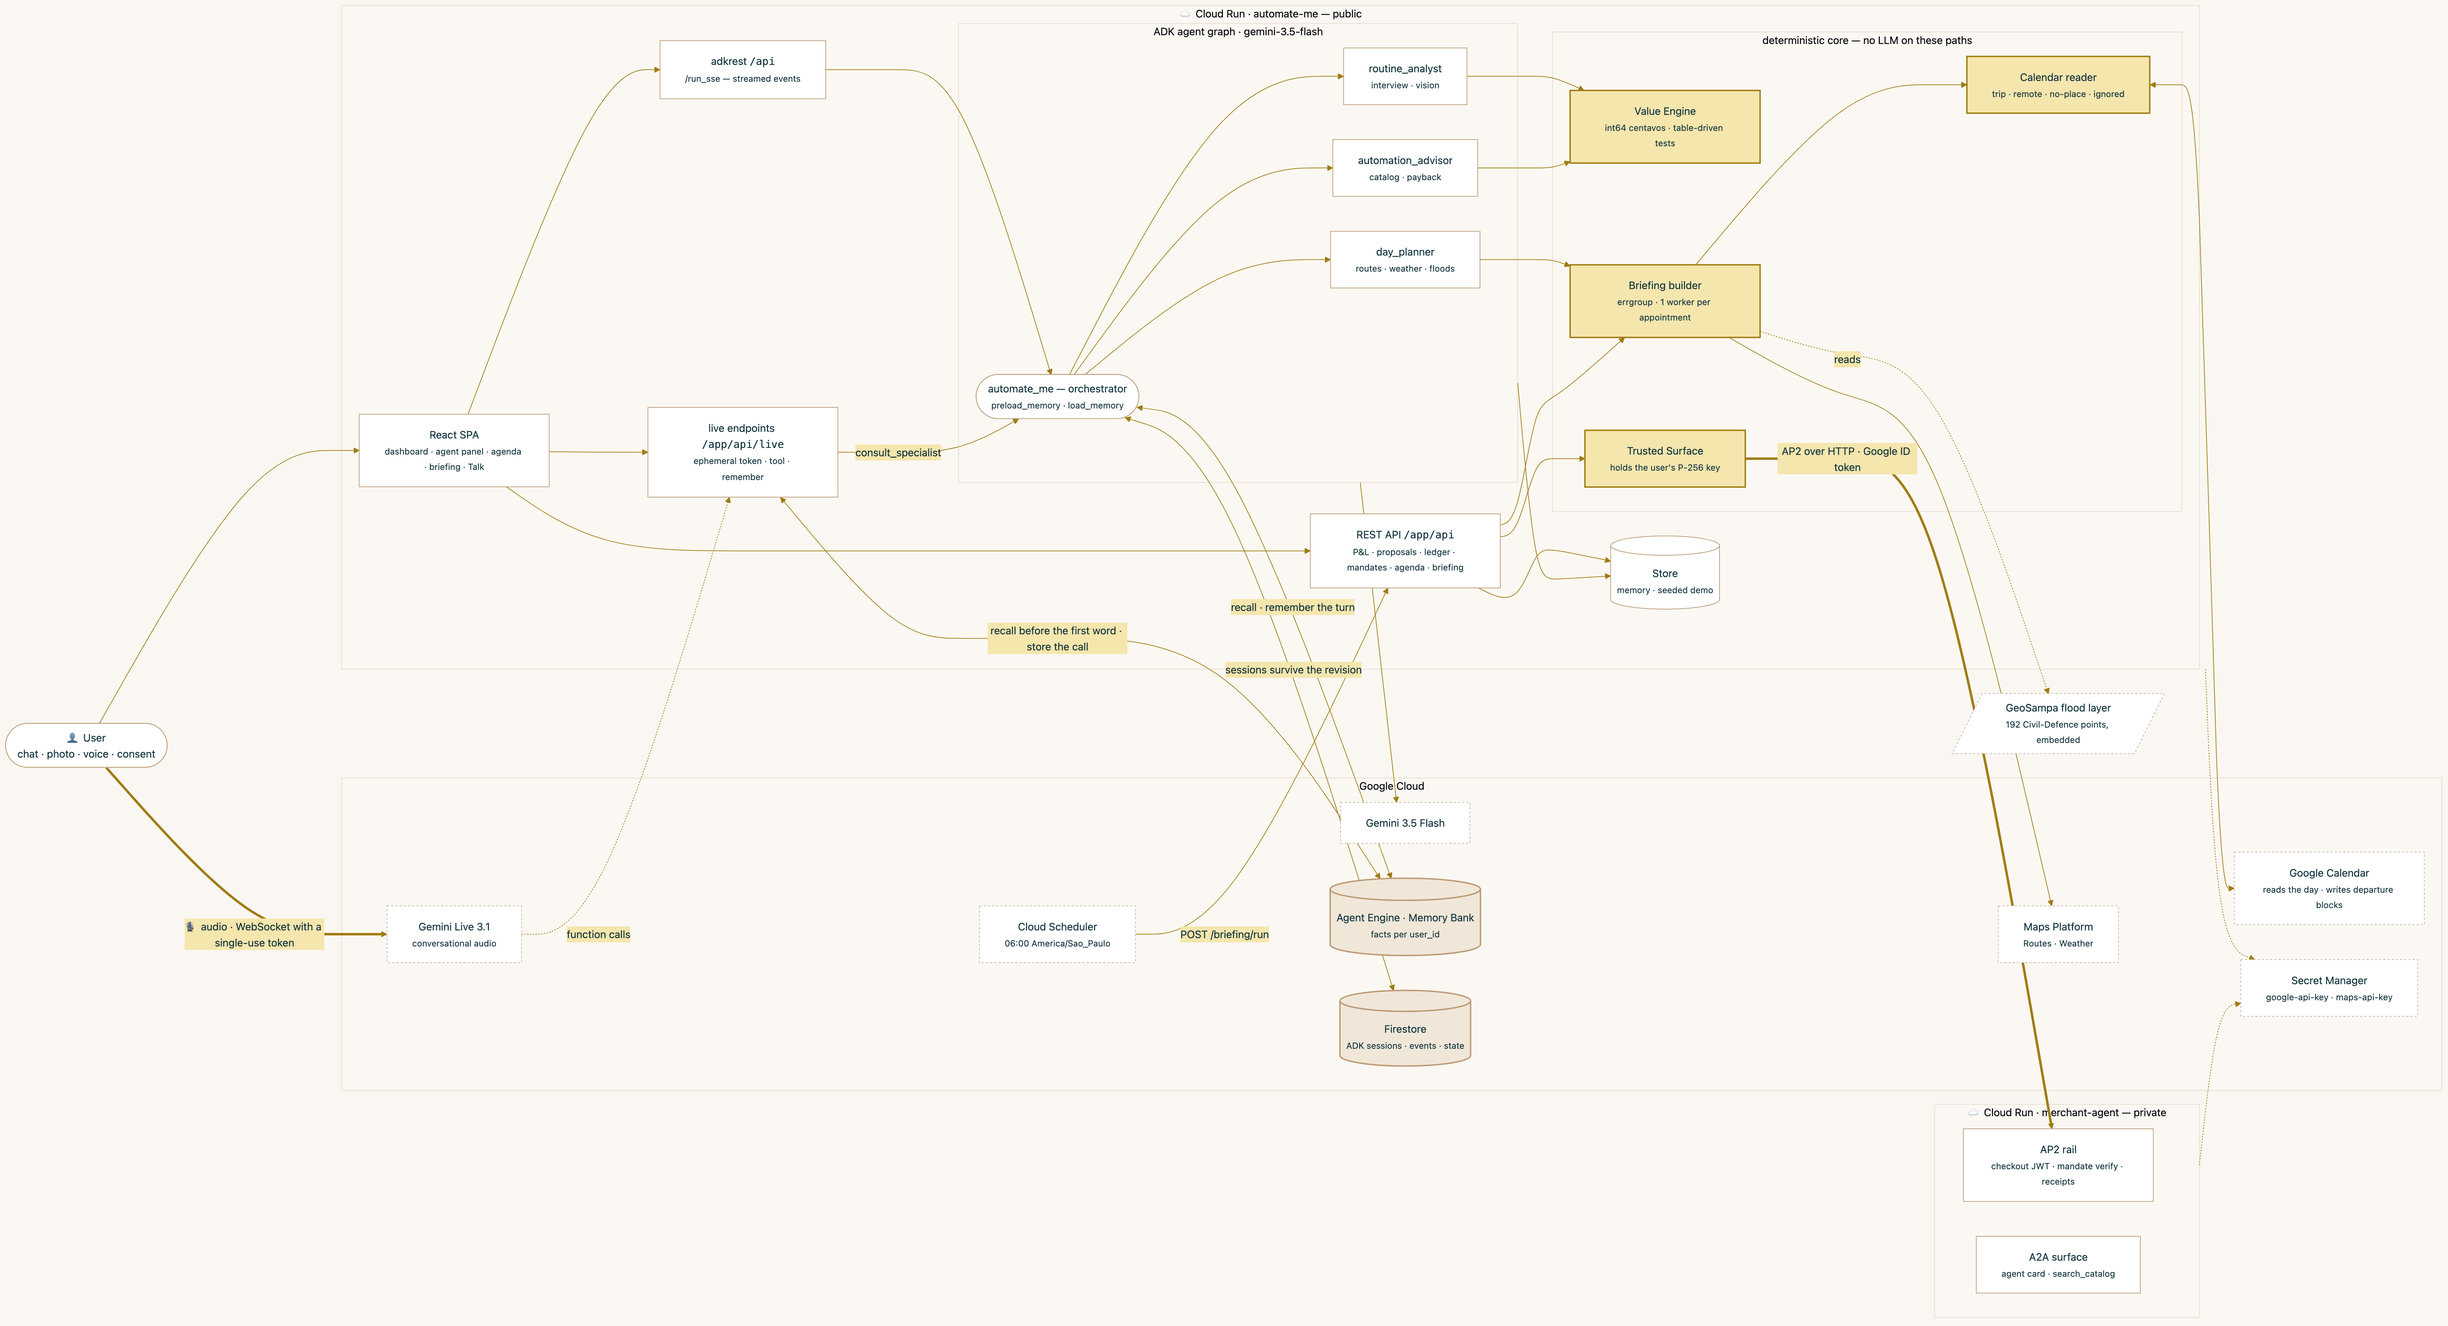
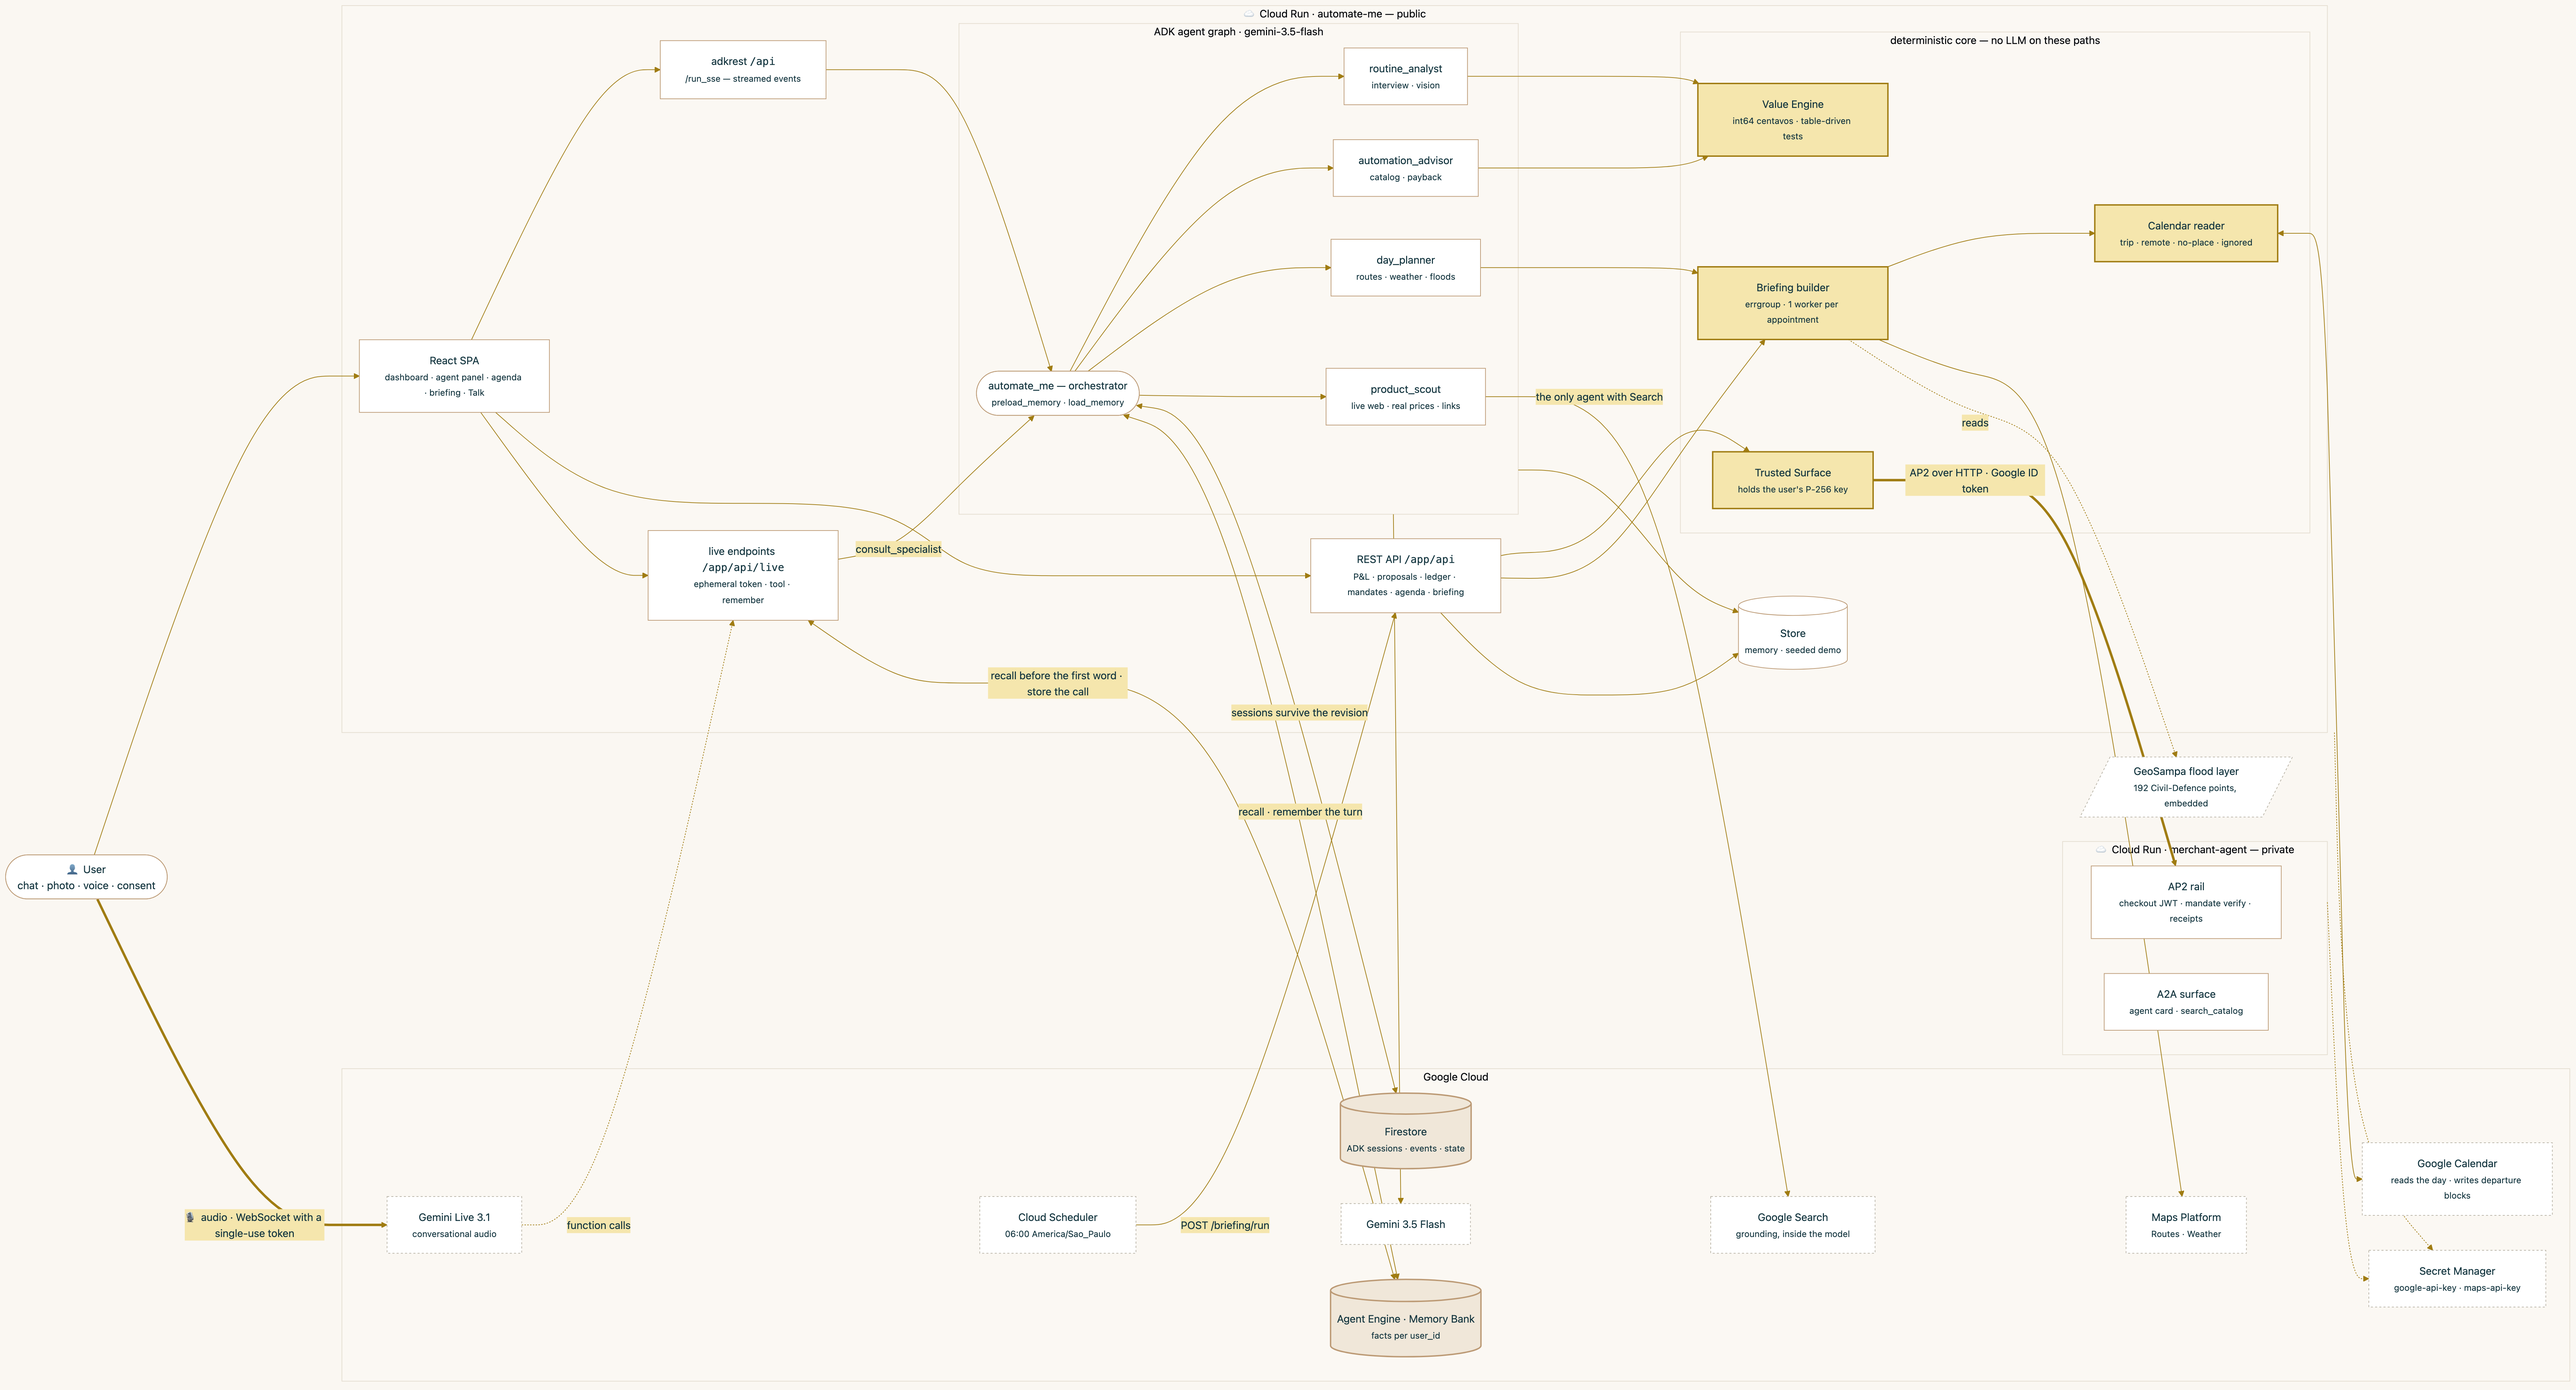
docs: the Product Scout joins the architecture diagram
Fourth sub-agent, and the only one holding Google Search — the diagram said
three and named no search path.

Claude-Session: https://claude.ai/code/session_01N2r9uSM9s7tCPnMxxDtEt6

diff --git a/README.md b/README.md
@@ -81,7 +81,8 @@ flowchart LR
             RA["routine_analyst<br/><small>interview · vision</small>"]
             AA["automation_advisor<br/><small>catalog · payback</small>"]
             DP["day_planner<br/><small>routes · weather · floods</small>"]
-            ORCH --> RA & AA & DP
+            PS["product_scout<br/><small>live web · real prices · links</small>"]
+            ORCH --> RA & AA & DP & PS
         end
 
         subgraph DET["deterministic core — no LLM on these paths"]
@@ -114,6 +115,7 @@ flowchart LR
     subgraph GCP["Google Cloud"]
         direction TB
         GEM["Gemini 3.5 Flash"]
+        GS["Google Search<br/><small>grounding, inside the model</small>"]
         LIVEAPI["Gemini Live 3.1<br/><small>conversational audio</small>"]
         MEM[("Agent Engine · Memory Bank<br/><small>facts per user_id</small>")]
         FS[("Firestore<br/><small>ADK sessions · events · state</small>")]
@@ -129,6 +131,7 @@ flowchart LR
     U ==>|"🎙 audio · WebSocket with a single-use token"| LIVEAPI
     LIVEAPI -.->|"function calls"| LIVE
     GRAPH --> GEM
+    PS -->|"the only agent with Search"| GS
     ORCH <-->|"sessions survive the revision"| FS
     ORCH <-->|"recall · remember the turn"| MEM
     LIVE <-->|"recall before the first word · store the call"| MEM
@@ -144,7 +147,7 @@ flowchart LR
     classDef ext fill:#FFFFFF,stroke:#B9B4A7,stroke-dasharray:3 3
     classDef mem fill:#F0E7D9,stroke:#BC9A75,stroke-width:2px
     class ENG,BR,CALR,TS det
-    class GEM,LIVEAPI,MAPS,SEC,SCHED,GEO,CAL ext
+    class GEM,LIVEAPI,MAPS,SEC,SCHED,GEO,CAL,GS ext
     class MEM,FS mem
 ```
 
@@ -255,7 +258,7 @@ ap2core/            AP2 v0.2 crypto — checkout JWT, closed mandates, receipts,
                     JWK P-256. Shared by both services. 10 test funcs.
 app/
   cmd/server        wiring: SPA, REST, adkrest, agent graph
-  internal/agents   the graph: orchestrator + 3 sub-agents, 7 tools
+  internal/agents   the graph: orchestrator + 4 sub-agents, tools shared with voice
                     core.go — tool bodies shared by the graph and the voice
                     session, plus the Live tool registry
   internal/engine   Value Engine — pure Go, int64 centavos, no I/O
